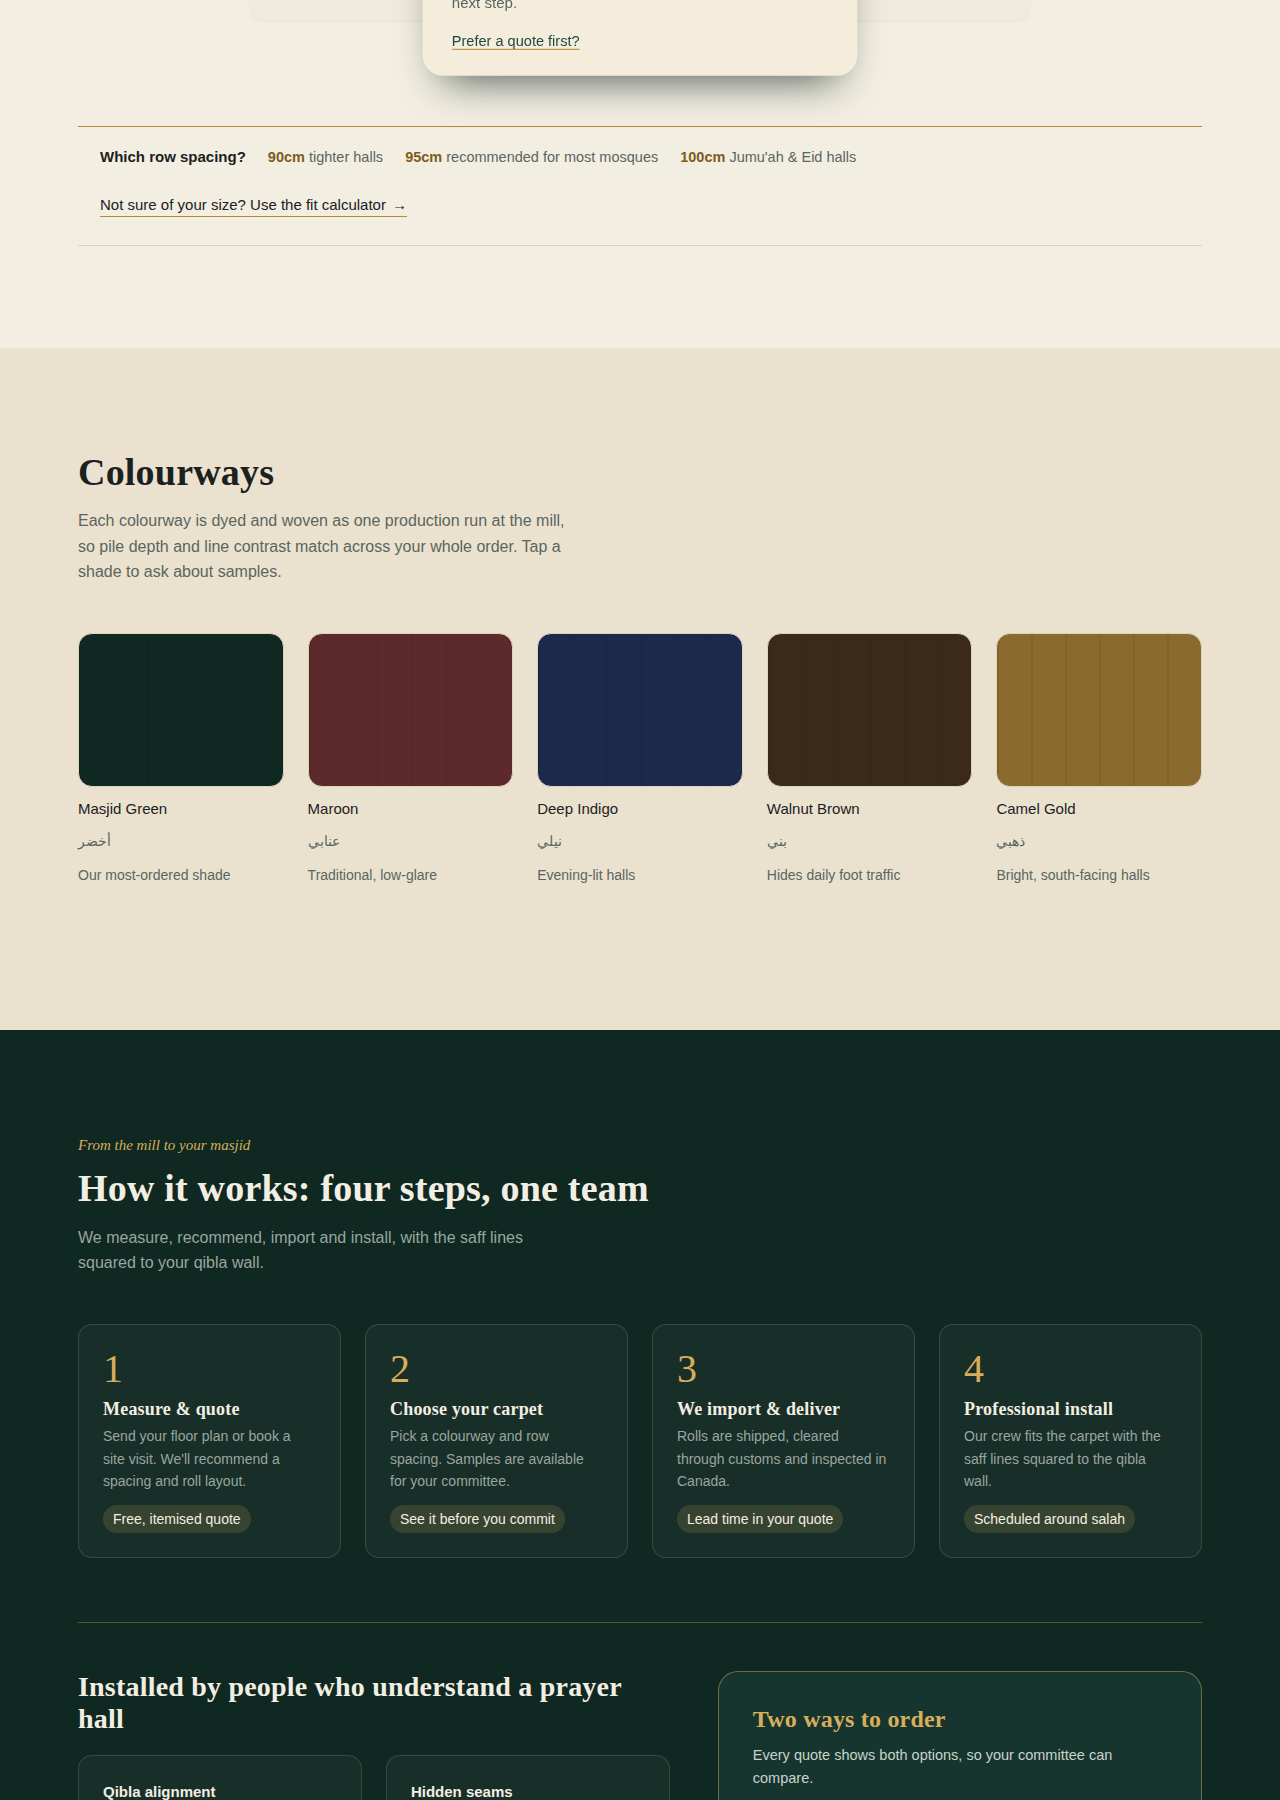
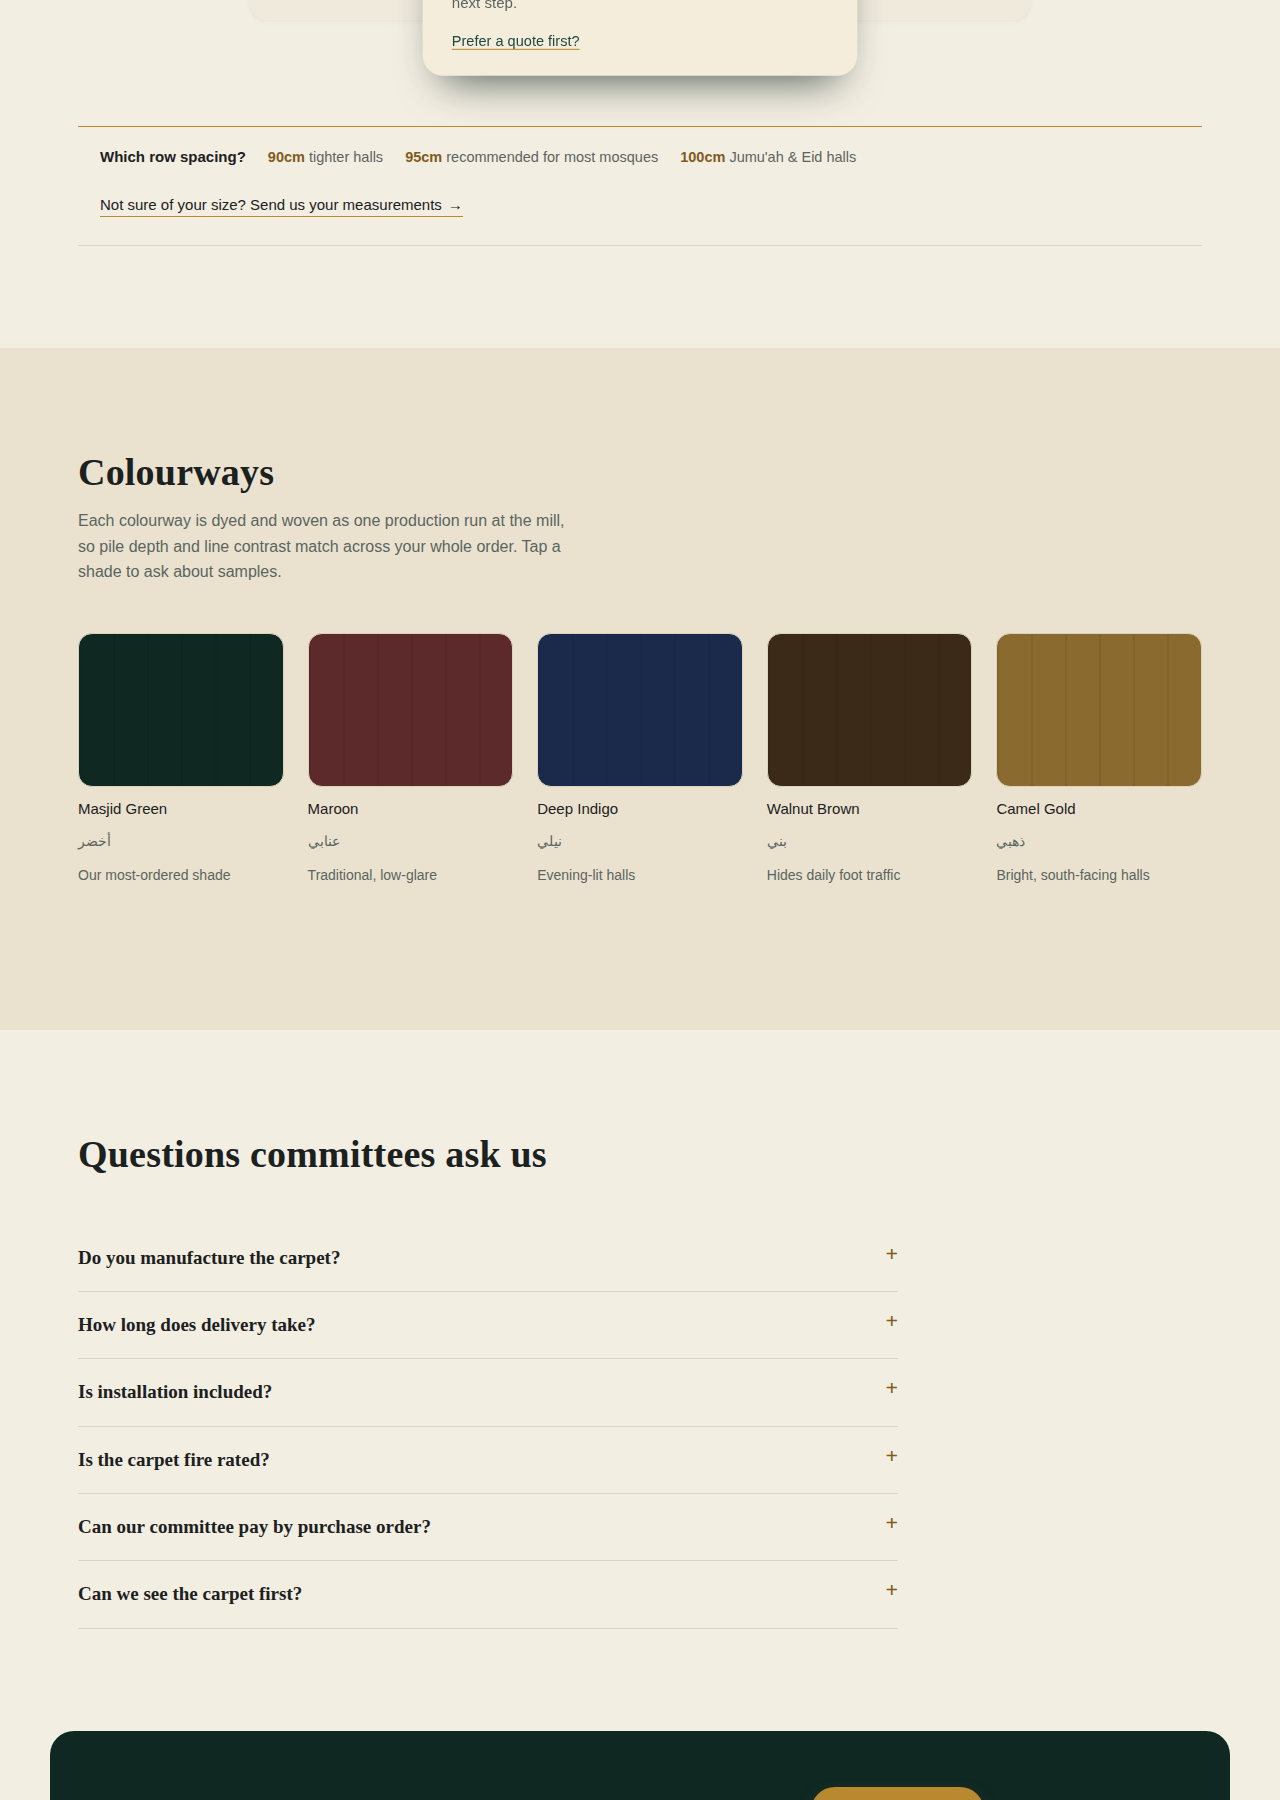
Homepage: remove sections between colourways and FAQ (preview)
Claude-Session: https://claude.ai/code/session_01PzvNP8taBEbNow6tuZd8Hp

diff --git a/previews/v3/preview-all.html b/previews/v3/preview-all.html
@@ -794,7 +794,7 @@ html body #header-group{position:sticky; top:-44px; z-index:40;}
         <strong>Which row spacing?</strong>
         <span><b>90cm</b> tighter halls</span><span><b>95cm</b> recommended for most mosques</span><span><b>100cm</b> Jumu'ah &amp;amp; Eid halls</span>
       </div>
-      <a class=&quot;mcc-btn-ghost&quot; href=&quot;#calculator&quot;>Not sure of your size? Use the fit calculator</a>
+      <a class=&quot;mcc-btn-ghost&quot; href=&quot;quote.html&quot;>Not sure of your size? Send us your measurements</a>
     </div>
   </div>
 </section>
@@ -814,87 +814,6 @@ html body #header-group{position:sticky; top:-44px; z-index:40;}
     </div>
     <p class=&quot;mcc-colorway-preview&quot; id=&quot;mccColorwayPreview&quot; aria-live=&quot;polite&quot;></p>
   </div>
-</section><section class=&quot;mcc-section mcc-how mcc-on-dark&quot; id=&quot;install&quot;>
-  <div class=&quot;mcc-wrap&quot;>
-    <div class=&quot;mcc-section-head&quot; data-reveal><span class=&quot;mcc-eyebrow&quot;>From the mill to your masjid</span><h2>How it works: four steps, one team</h2><p>We measure, recommend, import and install, with the saff lines squared to your qibla wall.</p></div>
-    <div class=&quot;mcc-steps&quot;>
-      <div class=&quot;mcc-step&quot; data-reveal><div class=&quot;mcc-step-num&quot;>1</div><h3>Measure &amp;amp; quote</h3><p>Send your floor plan or book a site visit. We'll recommend a spacing and roll layout.</p><span class=&quot;mcc-when&quot;>Free, itemised quote</span></div>
-      <div class=&quot;mcc-step&quot; data-reveal><div class=&quot;mcc-step-num&quot;>2</div><h3>Choose your carpet</h3><p>Pick a colourway and row spacing. Samples are available for your committee.</p><span class=&quot;mcc-when&quot;>See it before you commit</span></div>
-      <div class=&quot;mcc-step&quot; data-reveal><div class=&quot;mcc-step-num&quot;>3</div><h3>We import &amp;amp; deliver</h3><p>Rolls are shipped, cleared through customs and inspected in Canada.</p><span class=&quot;mcc-when&quot;>Lead time in your quote</span></div>
-      <div class=&quot;mcc-step&quot; data-reveal><div class=&quot;mcc-step-num&quot;>4</div><h3>Professional install</h3><p>Our crew fits the carpet with the saff lines squared to the qibla wall.</p><span class=&quot;mcc-when&quot;>Scheduled around salah</span></div>
-    </div>
-    <div class=&quot;mcc-how-install&quot;>
-      <div data-reveal>
-        <h3 class=&quot;mcc-how-sub&quot;>Installed by people who understand a prayer hall</h3>
-        <ul class=&quot;mcc-install-list&quot;>
-        <li><strong>Qibla alignment</strong><span>Lines squared to the qibla wall, not to the room</span></li>
-        <li><strong>Hidden seams</strong><span>Joins placed between rows, where no one kneels</span></li>
-        <li><strong>Old carpet removal</strong><span>Can be added to your quote</span></li>
-        <li><strong>Minimal disruption</strong><span>Scheduled around salah times and Jumu'ah</span></li>
-      </ul>
-      </div>
-    <aside class=&quot;mcc-install-card&quot; data-reveal>
-      <h3>Two ways to order</h3>
-      <p>Every quote shows both options, so your committee can compare.</p>
-      <div class=&quot;mcc-opt&quot;><span>Supply + install</span><span>Our carpet, fitted by our crew</span></div>
-      <div class=&quot;mcc-opt&quot;><span>Supply only</span><span>Our carpet, your installer</span></div>
-      <div class=&quot;mcc-opt&quot;><span>Where</span><span>Across Canada, with travel itemised</span></div>
-      <a href=&quot;installation.html&quot; class=&quot;mcc-btn-secondary&quot;>How installation works</a>
-    </aside>
-    </div>
-  </div>
-</section>
-
-<section class=&quot;mcc-section&quot; id=&quot;sourcing&quot;>
-  <div class=&quot;mcc-wrap mcc-source&quot;>
-    <div class=&quot;mcc-source-visual&quot; data-reveal><svg viewBox=&quot;0 0 500 400&quot; preserveAspectRatio=&quot;xMidYMid slice&quot; aria-hidden=&quot;true&quot;><rect width=&quot;500&quot; height=&quot;400&quot; fill=&quot;#0F2822&quot;/>
-          <g transform=&quot;translate(70,120)&quot;>
-            <rect x=&quot;0&quot; y=&quot;120&quot; width=&quot;300&quot; height=&quot;56&quot; rx=&quot;6&quot; fill=&quot;#5C2A2A&quot;/><ellipse cx=&quot;300&quot; cy=&quot;148&quot; rx=&quot;14&quot; ry=&quot;28&quot; fill=&quot;#7A3434&quot; stroke=&quot;#D7AE5C&quot;/><g stroke=&quot;#B8892F&quot; opacity=&quot;.5&quot;><line x1=&quot;0&quot; y1=&quot;134&quot; x2=&quot;300&quot; y2=&quot;134&quot;/><line x1=&quot;0&quot; y1=&quot;162&quot; x2=&quot;300&quot; y2=&quot;162&quot;/></g>
-            <rect x=&quot;30&quot; y=&quot;60&quot; width=&quot;300&quot; height=&quot;56&quot; rx=&quot;6&quot; fill=&quot;#16352E&quot;/><ellipse cx=&quot;330&quot; cy=&quot;88&quot; rx=&quot;14&quot; ry=&quot;28&quot; fill=&quot;#204A40&quot; stroke=&quot;#D7AE5C&quot;/><g stroke=&quot;#B8892F&quot; opacity=&quot;.5&quot;><line x1=&quot;30&quot; y1=&quot;74&quot; x2=&quot;330&quot; y2=&quot;74&quot;/><line x1=&quot;30&quot; y1=&quot;102&quot; x2=&quot;330&quot; y2=&quot;102&quot;/></g>
-            <rect x=&quot;60&quot; y=&quot;0&quot; width=&quot;300&quot; height=&quot;56&quot; rx=&quot;6&quot; fill=&quot;#1B2A4A&quot;/><ellipse cx=&quot;360&quot; cy=&quot;28&quot; rx=&quot;14&quot; ry=&quot;28&quot; fill=&quot;#27406B&quot; stroke=&quot;#D7AE5C&quot;/><g stroke=&quot;#B8892F&quot; opacity=&quot;.5&quot;><line x1=&quot;60&quot; y1=&quot;14&quot; x2=&quot;360&quot; y2=&quot;14&quot;/><line x1=&quot;60&quot; y1=&quot;42&quot; x2=&quot;360&quot; y2=&quot;42&quot;/></g>
-          </g>
-          <g stroke=&quot;#B8892F&quot; stroke-width=&quot;1&quot; opacity=&quot;.3&quot; fill=&quot;none&quot;><path d=&quot;M0 360 Q250 300 500 360&quot;/><path d=&quot;M0 380 Q250 320 500 380&quot;/></g></svg></div>
-    <div data-reveal>
-      <span class=&quot;mcc-eyebrow&quot;>Sourced, not manufactured, and that's the point</span>
-      <h2 style=&quot;font-size:clamp(28px,3.2vw,38px);&quot;>We source it. We check it. We bring it home.</h2>
-      <p style=&quot;margin-top:14px; color:var(--text-dim); max-width:50ch;&quot;>We don't own a loom, so we're never tied to one factory's range. We work with specialist prayer-carpet mills overseas and choose each roll for pile density, colourfastness and how straight its lines run. Then we import it, inspect it in Canada and deliver it to your door.</p>
-      <div class=&quot;mcc-pillars&quot;>
-        <div class=&quot;mcc-pillar&quot;><strong>Hand-selected mills</strong><span>Partners chosen for consistent quality, run after run</span></div>
-        <div class=&quot;mcc-pillar&quot;><strong>Inspected on arrival</strong><span>Every roll is checked before it's cut</span></div>
-        <div class=&quot;mcc-pillar&quot;><strong>Import handled</strong><span>Freight, duties and customs are itemised in your quote</span></div>
-        <div class=&quot;mcc-pillar&quot;><strong>The right carpet, not the nearest</strong><span>We match the mill to your hall's needs and budget</span></div>
-      </div>
-    </div>
-  </div>
-</section>
-
-<section class=&quot;mcc-section mcc-band&quot; id=&quot;calculator&quot;>
-  <div class=&quot;mcc-wrap&quot;>
-    <div class=&quot;mcc-section-head&quot; data-reveal>
-      <h2>Fit calculator</h2>
-      <p>Enter your hall's floor size for a rough row count and price range, then send the numbers to us for an exact quote.</p>
-    </div>
-    <div class=&quot;mcc-calc&quot;>
-      <div class=&quot;mcc-calc-form&quot;>
-        <label for=&quot;hw&quot;>Hall width (metres)</label>
-        <input type=&quot;number&quot; id=&quot;hw&quot; value=&quot;12&quot; min=&quot;1&quot; step=&quot;0.1&quot; inputmode=&quot;decimal&quot;>
-        <label for=&quot;hl&quot;>Hall length, front to back (metres)</label>
-        <input type=&quot;number&quot; id=&quot;hl&quot; value=&quot;8&quot; min=&quot;1&quot; step=&quot;0.1&quot; inputmode=&quot;decimal&quot;>
-        <label for=&quot;sp&quot;>Row spacing</label>
-        <select id=&quot;sp&quot;>
-          <option value=&quot;90&quot;>90cm, tighter halls</option>
-          <option value=&quot;95&quot; selected>95cm, recommended</option>
-          <option value=&quot;100&quot;>100cm, Jumu'ah &amp;amp; Eid halls</option>
-        </select>
-      </div>
-      <div class=&quot;mcc-calc-result&quot;>
-        <div class=&quot;mcc-num&quot; id=&quot;rowCount&quot; aria-live=&quot;polite&quot;>8</div>
-        <div class=&quot;mcc-label&quot;>prayer rows fit at this spacing</div>
-        <div class=&quot;mcc-note&quot; id=&quot;calcNote&quot;></div>
-        <a href=&quot;quote.html&quot; class=&quot;mcc-btn-primary&quot; id=&quot;calcSend&quot;>Request a quote with these numbers</a>
-      </div>
-    </div>
-  </div>
 </section>
 
 <section class=&quot;mcc-section&quot; id=&quot;faq&quot;>
@@ -910,23 +829,6 @@ html body #header-group{position:sticky; top:-44px; z-index:40;}
 </section>
 </div>
 <script>
-  (function(){
-    try{
-      var hw = document.getElementById('hw'), hl = document.getElementById('hl'), sp = document.getElementById('sp');
-      var rowCount = document.getElementById('rowCount'), calcNote = document.getElementById('calcNote'), send = document.getElementById('calcSend');
-      function recalc(){
-        var width = parseFloat(hw.value) || 0, length = parseFloat(hl.value) || 0, spacing = parseFloat(sp.value) / 100;
-        var rows = spacing > 0 ? Math.max(0, Math.floor(length / spacing)) : 0;
-        var area = width * length;
-        rowCount.textContent = rows;
-        calcNote.textContent = '≈ ' + area.toFixed(0) + 'm² of carpet, typically CAD $' + Math.round(area * 34).toLocaleString() + '–$' + Math.round(area * 44).toLocaleString() + ' including a seamed, fitted install.';
-        send.href = 'quote.html?w=' + encodeURIComponent(hw.value) + '&amp;l=' + encodeURIComponent(hl.value) + '&amp;s=' + encodeURIComponent(sp.value);
-      }
-      [hw, hl, sp].forEach(function(el){ el.addEventListener('input', recalc); });
-      recalc();
-    }catch(e){ console.error('Calculator error', e); }
-  })();
-
   (function(){
     try{
       var swatches = document.querySelectorAll('.mcc-swatch');

diff --git a/previews/v3/index.html b/previews/v3/index.html
@@ -205,7 +205,7 @@
         <strong>Which row spacing?</strong>
         <span><b>90cm</b> tighter halls</span><span><b>95cm</b> recommended for most mosques</span><span><b>100cm</b> Jumu'ah &amp; Eid halls</span>
       </div>
-      <a class="mcc-btn-ghost" href="#calculator">Not sure of your size? Use the fit calculator</a>
+      <a class="mcc-btn-ghost" href="quote.html">Not sure of your size? Send us your measurements</a>
     </div>
   </div>
 </section>
@@ -225,87 +225,6 @@
     </div>
     <p class="mcc-colorway-preview" id="mccColorwayPreview" aria-live="polite"></p>
   </div>
-</section><section class="mcc-section mcc-how mcc-on-dark" id="install">
-  <div class="mcc-wrap">
-    <div class="mcc-section-head" data-reveal><span class="mcc-eyebrow">From the mill to your masjid</span><h2>How it works: four steps, one team</h2><p>We measure, recommend, import and install, with the saff lines squared to your qibla wall.</p></div>
-    <div class="mcc-steps">
-      <div class="mcc-step" data-reveal><div class="mcc-step-num">1</div><h3>Measure &amp; quote</h3><p>Send your floor plan or book a site visit. We'll recommend a spacing and roll layout.</p><span class="mcc-when">Free, itemised quote</span></div>
-      <div class="mcc-step" data-reveal><div class="mcc-step-num">2</div><h3>Choose your carpet</h3><p>Pick a colourway and row spacing. Samples are available for your committee.</p><span class="mcc-when">See it before you commit</span></div>
-      <div class="mcc-step" data-reveal><div class="mcc-step-num">3</div><h3>We import &amp; deliver</h3><p>Rolls are shipped, cleared through customs and inspected in Canada.</p><span class="mcc-when">Lead time in your quote</span></div>
-      <div class="mcc-step" data-reveal><div class="mcc-step-num">4</div><h3>Professional install</h3><p>Our crew fits the carpet with the saff lines squared to the qibla wall.</p><span class="mcc-when">Scheduled around salah</span></div>
-    </div>
-    <div class="mcc-how-install">
-      <div data-reveal>
-        <h3 class="mcc-how-sub">Installed by people who understand a prayer hall</h3>
-        <ul class="mcc-install-list">
-        <li><strong>Qibla alignment</strong><span>Lines squared to the qibla wall, not to the room</span></li>
-        <li><strong>Hidden seams</strong><span>Joins placed between rows, where no one kneels</span></li>
-        <li><strong>Old carpet removal</strong><span>Can be added to your quote</span></li>
-        <li><strong>Minimal disruption</strong><span>Scheduled around salah times and Jumu'ah</span></li>
-      </ul>
-      </div>
-    <aside class="mcc-install-card" data-reveal>
-      <h3>Two ways to order</h3>
-      <p>Every quote shows both options, so your committee can compare.</p>
-      <div class="mcc-opt"><span>Supply + install</span><span>Our carpet, fitted by our crew</span></div>
-      <div class="mcc-opt"><span>Supply only</span><span>Our carpet, your installer</span></div>
-      <div class="mcc-opt"><span>Where</span><span>Across Canada, with travel itemised</span></div>
-      <a href="installation.html" class="mcc-btn-secondary">How installation works</a>
-    </aside>
-    </div>
-  </div>
-</section>
-
-<section class="mcc-section" id="sourcing">
-  <div class="mcc-wrap mcc-source">
-    <div class="mcc-source-visual" data-reveal><svg viewBox="0 0 500 400" preserveAspectRatio="xMidYMid slice" aria-hidden="true"><rect width="500" height="400" fill="#0F2822"/>
-          <g transform="translate(70,120)">
-            <rect x="0" y="120" width="300" height="56" rx="6" fill="#5C2A2A"/><ellipse cx="300" cy="148" rx="14" ry="28" fill="#7A3434" stroke="#D7AE5C"/><g stroke="#B8892F" opacity=".5"><line x1="0" y1="134" x2="300" y2="134"/><line x1="0" y1="162" x2="300" y2="162"/></g>
-            <rect x="30" y="60" width="300" height="56" rx="6" fill="#16352E"/><ellipse cx="330" cy="88" rx="14" ry="28" fill="#204A40" stroke="#D7AE5C"/><g stroke="#B8892F" opacity=".5"><line x1="30" y1="74" x2="330" y2="74"/><line x1="30" y1="102" x2="330" y2="102"/></g>
-            <rect x="60" y="0" width="300" height="56" rx="6" fill="#1B2A4A"/><ellipse cx="360" cy="28" rx="14" ry="28" fill="#27406B" stroke="#D7AE5C"/><g stroke="#B8892F" opacity=".5"><line x1="60" y1="14" x2="360" y2="14"/><line x1="60" y1="42" x2="360" y2="42"/></g>
-          </g>
-          <g stroke="#B8892F" stroke-width="1" opacity=".3" fill="none"><path d="M0 360 Q250 300 500 360"/><path d="M0 380 Q250 320 500 380"/></g></svg></div>
-    <div data-reveal>
-      <span class="mcc-eyebrow">Sourced, not manufactured, and that's the point</span>
-      <h2 style="font-size:clamp(28px,3.2vw,38px);">We source it. We check it. We bring it home.</h2>
-      <p style="margin-top:14px; color:var(--text-dim); max-width:50ch;">We don't own a loom, so we're never tied to one factory's range. We work with specialist prayer-carpet mills overseas and choose each roll for pile density, colourfastness and how straight its lines run. Then we import it, inspect it in Canada and deliver it to your door.</p>
-      <div class="mcc-pillars">
-        <div class="mcc-pillar"><strong>Hand-selected mills</strong><span>Partners chosen for consistent quality, run after run</span></div>
-        <div class="mcc-pillar"><strong>Inspected on arrival</strong><span>Every roll is checked before it's cut</span></div>
-        <div class="mcc-pillar"><strong>Import handled</strong><span>Freight, duties and customs are itemised in your quote</span></div>
-        <div class="mcc-pillar"><strong>The right carpet, not the nearest</strong><span>We match the mill to your hall's needs and budget</span></div>
-      </div>
-    </div>
-  </div>
-</section>
-
-<section class="mcc-section mcc-band" id="calculator">
-  <div class="mcc-wrap">
-    <div class="mcc-section-head" data-reveal>
-      <h2>Fit calculator</h2>
-      <p>Enter your hall's floor size for a rough row count and price range, then send the numbers to us for an exact quote.</p>
-    </div>
-    <div class="mcc-calc">
-      <div class="mcc-calc-form">
-        <label for="hw">Hall width (metres)</label>
-        <input type="number" id="hw" value="12" min="1" step="0.1" inputmode="decimal">
-        <label for="hl">Hall length, front to back (metres)</label>
-        <input type="number" id="hl" value="8" min="1" step="0.1" inputmode="decimal">
-        <label for="sp">Row spacing</label>
-        <select id="sp">
-          <option value="90">90cm, tighter halls</option>
-          <option value="95" selected>95cm, recommended</option>
-          <option value="100">100cm, Jumu'ah &amp; Eid halls</option>
-        </select>
-      </div>
-      <div class="mcc-calc-result">
-        <div class="mcc-num" id="rowCount" aria-live="polite">8</div>
-        <div class="mcc-label">prayer rows fit at this spacing</div>
-        <div class="mcc-note" id="calcNote"></div>
-        <a href="quote.html" class="mcc-btn-primary" id="calcSend">Request a quote with these numbers</a>
-      </div>
-    </div>
-  </div>
 </section>
 
 <section class="mcc-section" id="faq">
@@ -321,23 +240,6 @@
 </section>
 </div>
 <script>
-  (function(){
-    try{
-      var hw = document.getElementById('hw'), hl = document.getElementById('hl'), sp = document.getElementById('sp');
-      var rowCount = document.getElementById('rowCount'), calcNote = document.getElementById('calcNote'), send = document.getElementById('calcSend');
-      function recalc(){
-        var width = parseFloat(hw.value) || 0, length = parseFloat(hl.value) || 0, spacing = parseFloat(sp.value) / 100;
-        var rows = spacing > 0 ? Math.max(0, Math.floor(length / spacing)) : 0;
-        var area = width * length;
-        rowCount.textContent = rows;
-        calcNote.textContent = '≈ ' + area.toFixed(0) + 'm² of carpet, typically CAD $' + Math.round(area * 34).toLocaleString() + '–$' + Math.round(area * 44).toLocaleString() + ' including a seamed, fitted install.';
-        send.href = 'quote.html?w=' + encodeURIComponent(hw.value) + '&l=' + encodeURIComponent(hl.value) + '&s=' + encodeURIComponent(sp.value);
-      }
-      [hw, hl, sp].forEach(function(el){ el.addEventListener('input', recalc); });
-      recalc();
-    }catch(e){ console.error('Calculator error', e); }
-  })();
-
   (function(){
     try{
       var swatches = document.querySelectorAll('.mcc-swatch');

diff --git a/CHANGE-PLAN.md b/CHANGE-PLAN.md
@@ -75,6 +75,11 @@ Owner asked to apply the layout suggestions only (not directions A-D). Homepage 
 spacing tip + calculator link → colourways → testimonial (when added) → "How it works" (four steps + installation
 merged, dark band) → sourcing → fit calculator → FAQ → closing banner. The separate line-spacing section is folded
 into the tip; header menu adds "Colours"; footer links one per line. Page ~700px shorter.
+Then (owner): removed everything between Colourways and the FAQ (How it works, sourcing, fit calculator, testimonial
+slot); homepage only, other pages untouched. Homepage is now hero → trust band → hall sizes → colourways → FAQ →
+closing banner (page ~4,300px, was ~7,600px). Their settings stay in the schema, labelled "not shown".
+Still pointing at the removed calculator (not homepage files, left as asked): Installation page "Try the fit
+calculator" button and footer "Fit calculator" link.
 Screenshots: `previews/layout/`. Before upload, check the live `templates/index.json` for saved hero settings
 (new hero wording is a schema default and won't show if the owner saved their own).
 
